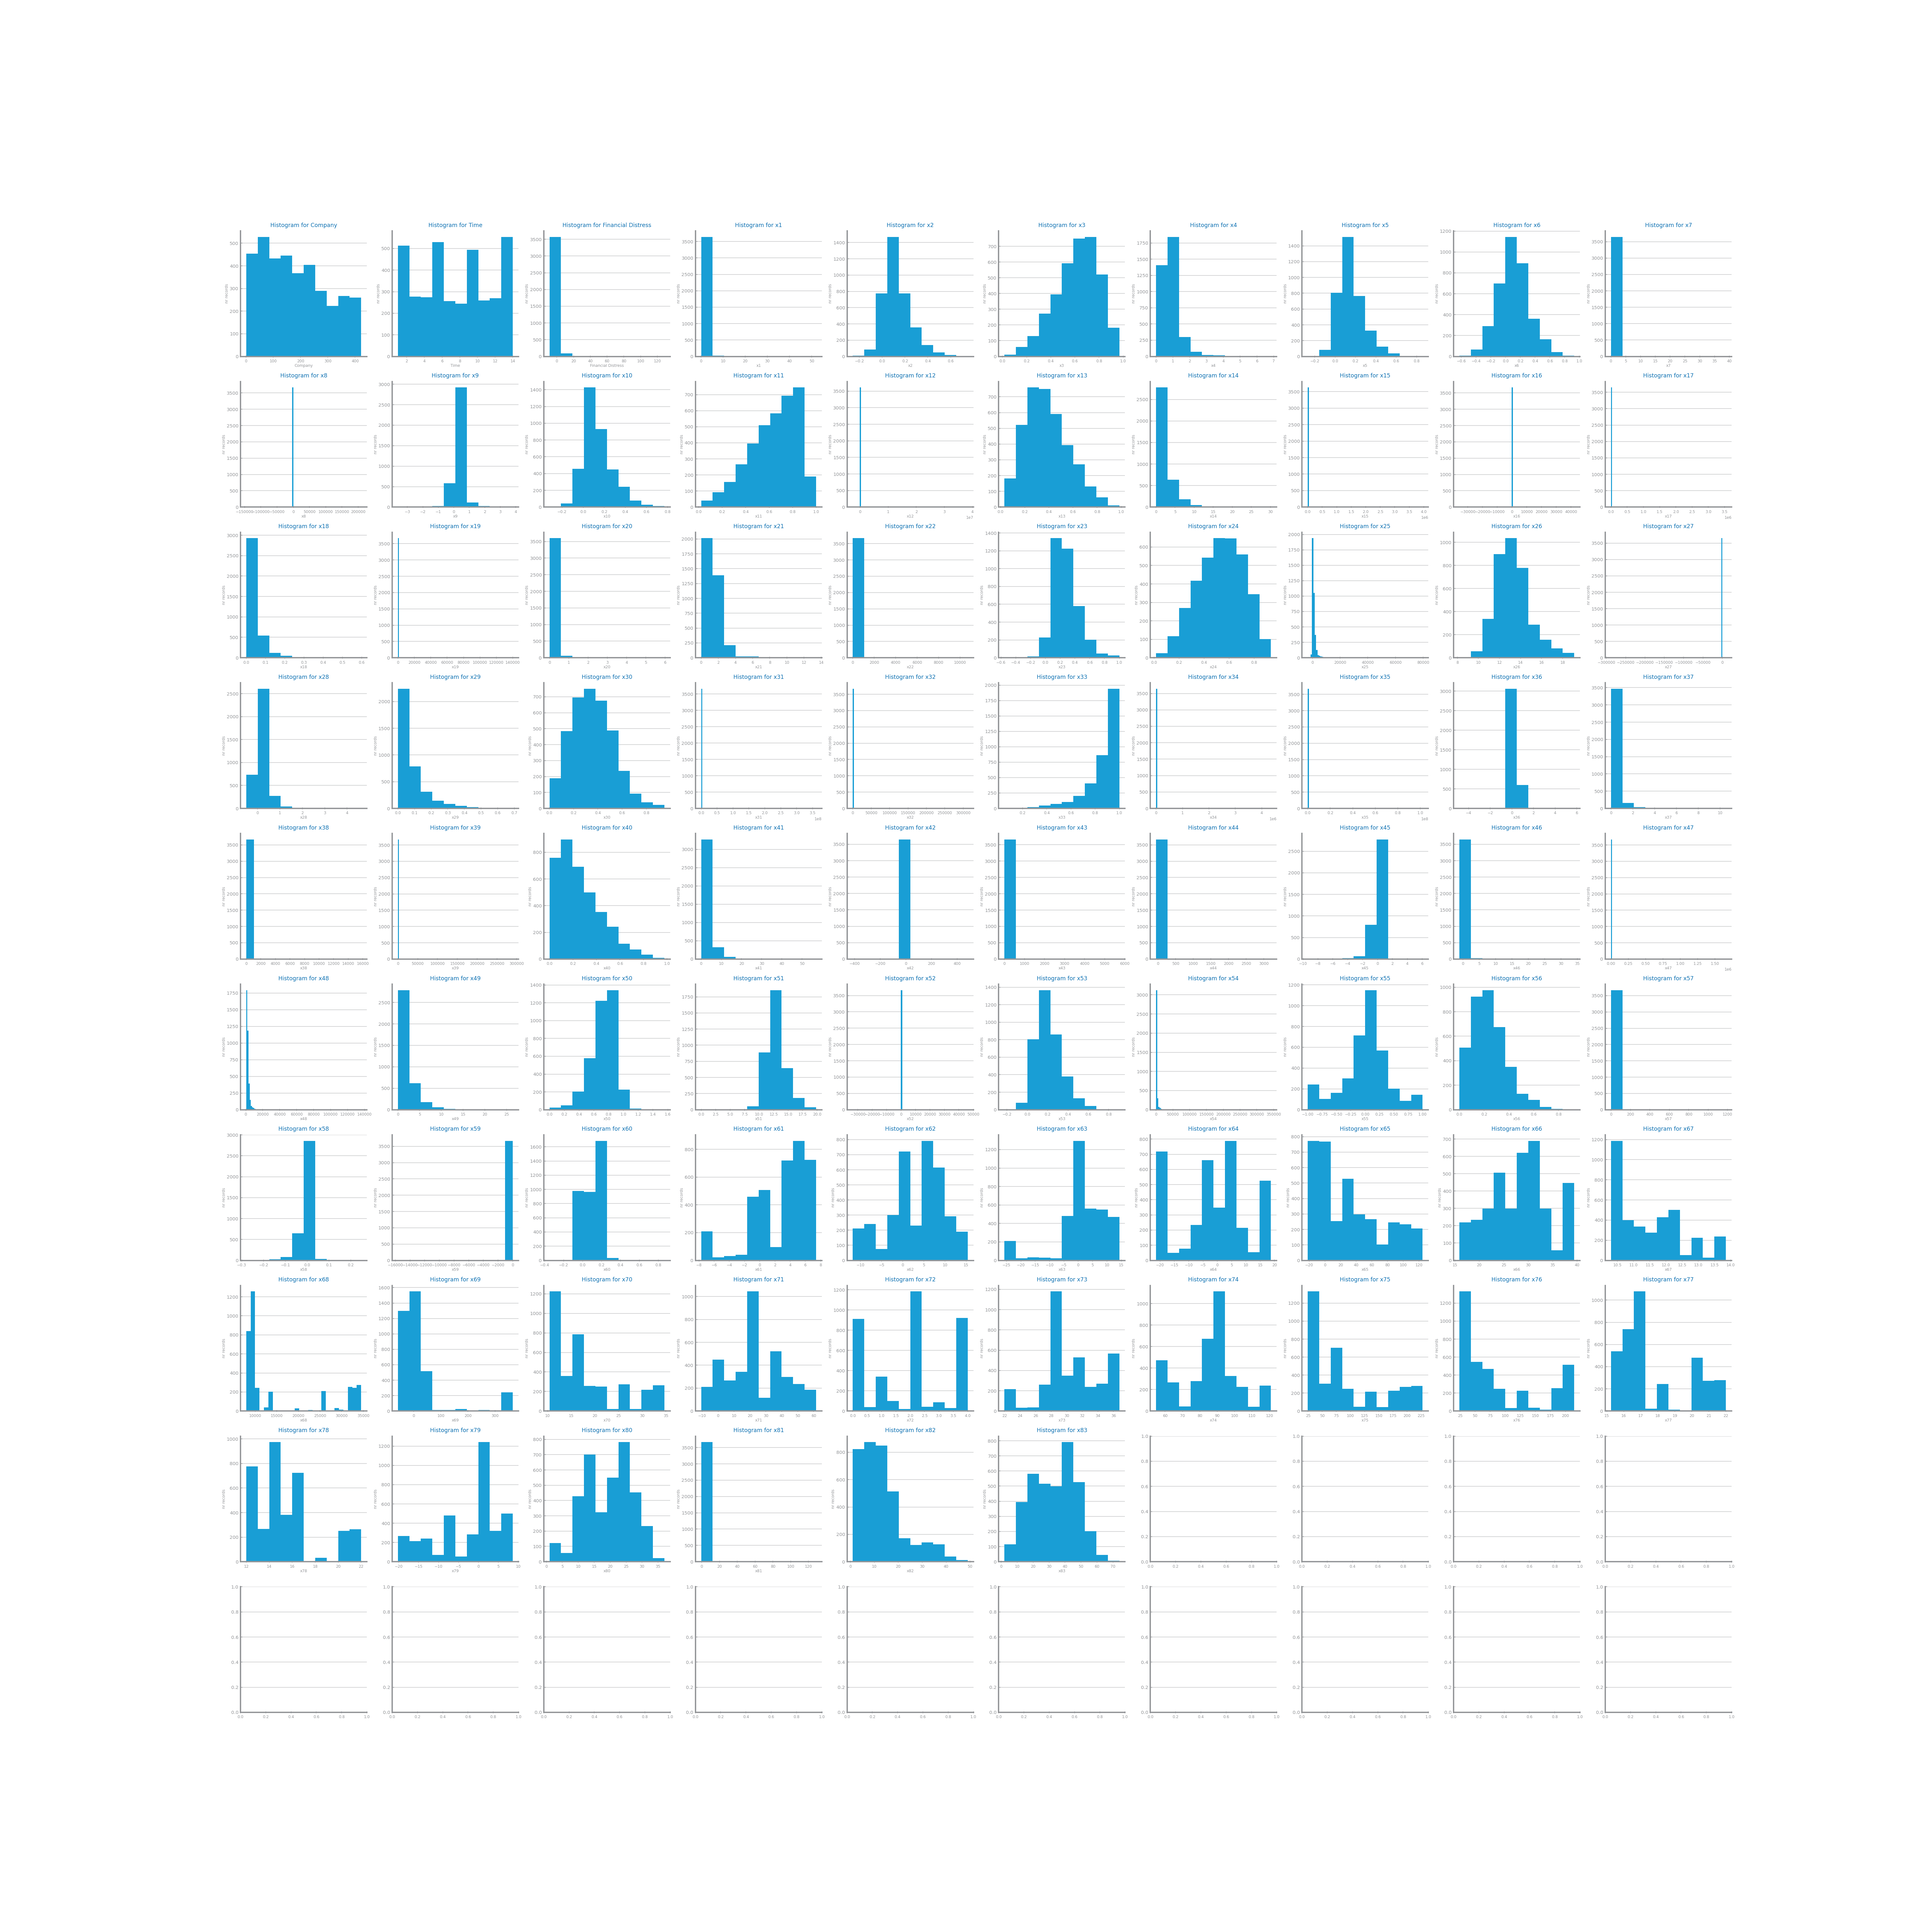
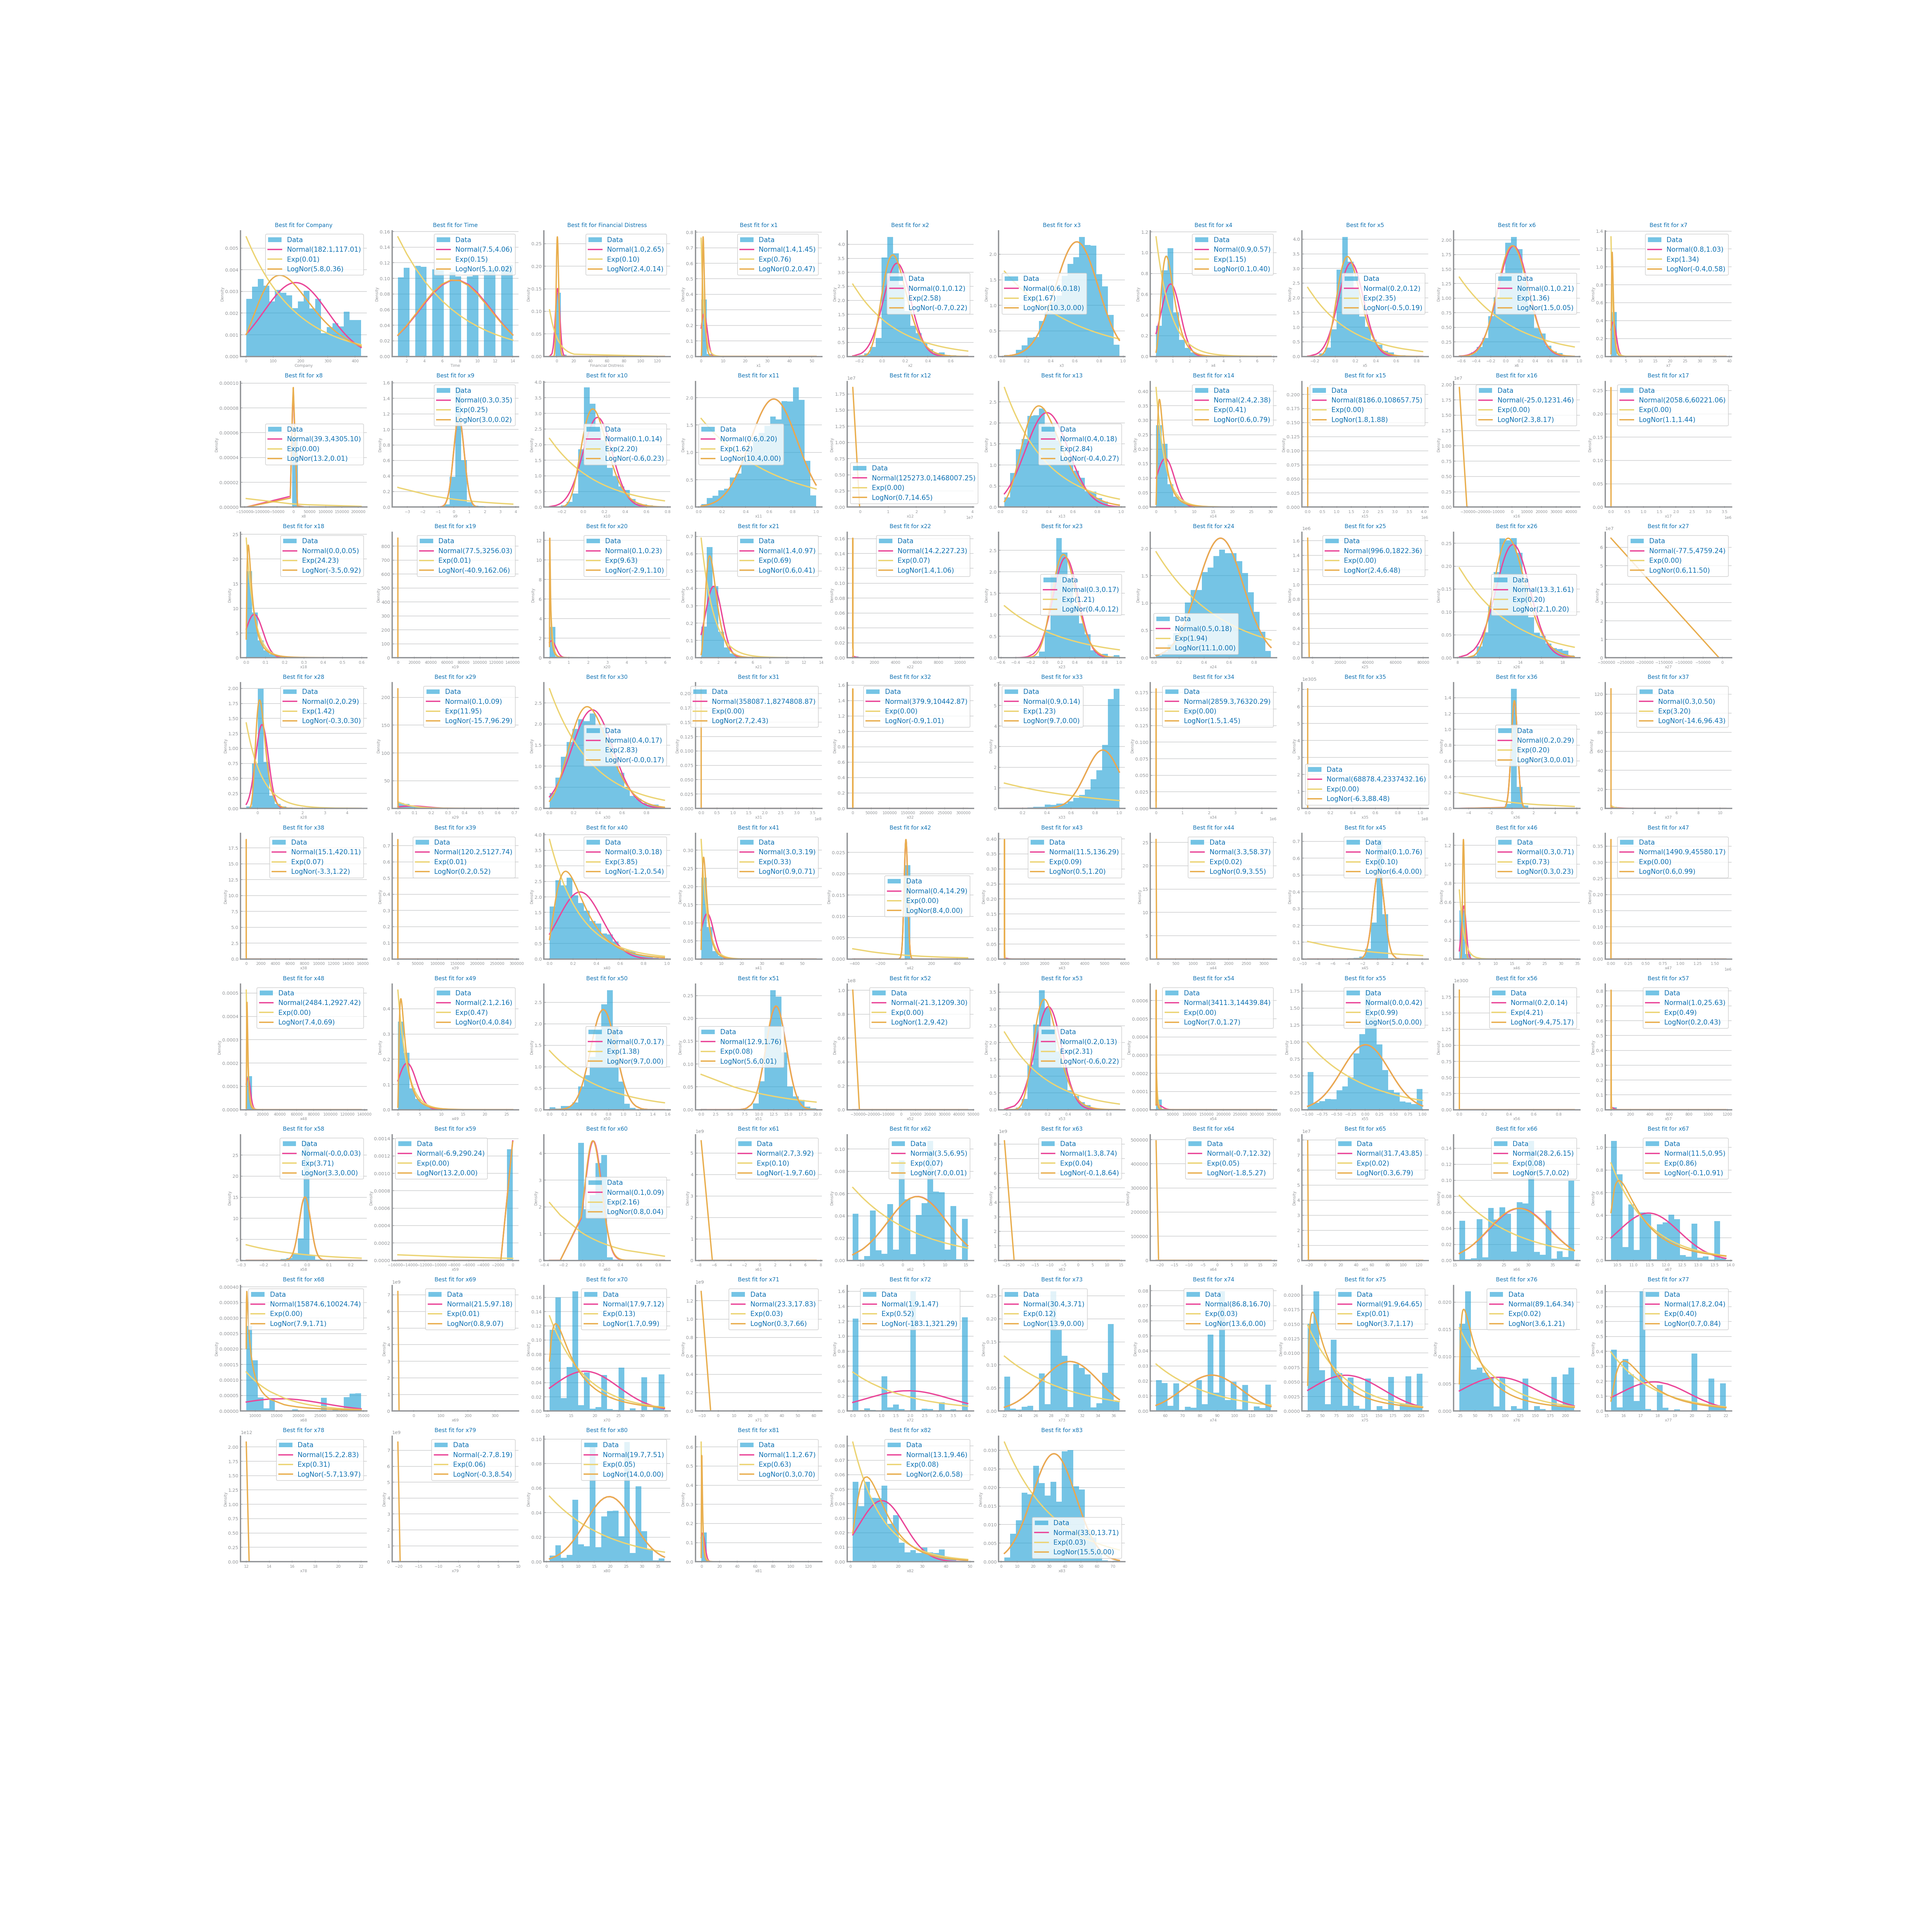
Finished Data Profiling

Changed region(s): [[0.1247, 0.1247, 0.9038, 0.8103], [0.8415, 0.2805, 0.9038, 0.3117]]

diff --git a/classes/DataProfiling.py b/classes/DataProfiling.py
@@ -1,15 +1,16 @@
 import math
-import seaborn as sns
 import pandas as pd
+from pandas import Series, DataFrame
 import numpy as np
+from numpy import ndarray
 from matplotlib import pyplot as plt
 from matplotlib.pyplot import figure, savefig, show, subplots
 from matplotlib.figure import Figure
+from matplotlib.axes import Axes
 from seaborn import heatmap
+from scipy.stats import norm, expon, lognorm
 from dslabs_functions import plot_bar_chart, get_variable_types, derive_date_variables, HEIGHT, \
     plot_multi_scatters_chart, set_chart_labels, define_grid
-from numpy import ndarray
-from pandas import Series, DataFrame
 
 class DataProfiling:
     """
@@ -180,7 +181,7 @@ class DataProfiling:
                 # Update grid indices
                 i, j = (i + 1, 0) if (n + 1) % grid_size == 0 else (i, j + 1)
 
-            savefig(f"graphs/{self.data_loader.file_tag}_histogram_numeric_distribution.png")
+            savefig(f"graphs/{self.data_loader.file_tag}_single_histograms_numeric.png")
             plt.show()
         else:
             print("There are no numeric variables.")
@@ -204,10 +205,79 @@ class DataProfiling:
                     percentage=False,
                 )
                 i, j = (i + 1, 0) if (n + 1) % cols == 0 else (i, j + 1)
-            savefig(f"graphs/{self.data_loader.file_tag}_histograms_symbolic.png")
+            savefig(f"graphs/{self.data_loader.file_tag}_single_histograms_symbolic.png")
             show()
         else:
             print("There are no symbolic variables.")
+
+    def compute_known_distributions(self, x_values: list) -> dict:
+        distributions = dict()
+        # Gaussian
+        mean, sigma = norm.fit(x_values)
+        distributions["Normal(%.1f,%.2f)" % (mean, sigma)] = norm.pdf(x_values, mean, sigma)
+        # Exponential
+        loc, scale = expon.fit(x_values)
+        distributions["Exp(%.2f)" % (1 / scale)] = expon.pdf(x_values, loc, scale)
+        # LogNorm
+        sigma, loc, scale = lognorm.fit(x_values)
+        distributions["LogNor(%.1f,%.2f)" % (math.log(scale), sigma)] = lognorm.pdf(
+            x_values, sigma, loc, scale
+        )
+        return distributions
+
+    def histogram_with_distributions(self, ax: Axes, series: Series, var: str):
+        values: list = series.sort_values().to_list()
+        ax.hist(values, bins=20, density=True, alpha=0.6, label="Data")
+        distributions: dict = self.compute_known_distributions(values)
+        for label, dist in distributions.items():
+            ax.plot(values, dist, label=label)
+        ax.set_title(f"Best fit for {var}")
+        ax.set_xlabel(var)
+        ax.set_ylabel("Density")
+        ax.legend()
+
+    def plot_histograms_distribution(self):
+
+        """Plots histograms for all numerical variables and fits known distributions."""
+        variables_types: dict[str, list] = get_variable_types(self.data)
+        numeric: list[str] = variables_types["numeric"]
+        numeric = [col for col in numeric if pd.api.types.is_numeric_dtype(self.data[col])]
+
+        if numeric:
+            # Determine the size of the grid
+            num_plots = len(numeric)
+            grid_size = math.ceil(math.sqrt(num_plots))  # Square grid (equal rows and columns)
+
+            # Create the figure and axes with a square grid
+            fig: Figure
+            axs: ndarray
+            fig, axs = plt.subplots(
+                grid_size, grid_size, figsize=(grid_size * HEIGHT, grid_size * HEIGHT), squeeze=False
+            )
+            i: int
+            j: int
+            i, j = 0, 0
+
+            for n in range(len(numeric)):
+                feature = numeric[n]
+                col_data = self.data[feature].dropna()
+
+                print(f"Processing feature: {feature}")
+
+                # Plot histogram and distributions
+                self.histogram_with_distributions(axs[i, j], col_data, feature)
+
+                # Update grid indices
+                i, j = (i + 1, 0) if (n + 1) % grid_size == 0 else (i, j + 1)
+
+            # Remove any empty subplots
+            for ax in axs.flat[num_plots:]:
+                ax.axis("off")
+
+            savefig(f"graphs/{self.data_loader.file_tag}_histogram_numeric_distribution.png")
+            plt.show()
+        else:
+            print("There are no numeric variables.")
 
     NR_STDEV: int = 2
     IQR_FACTOR: float = 1.5

diff --git a/main.py b/main.py
@@ -35,8 +35,10 @@ data_profiling2 = DataProfiling(data_loader2)
 # data_profiling2.plot_global_boxplots()
 # data_profiling1.plot_single_variable_boxplots()
 # data_profiling2.plot_single_variable_boxplots()
-# data_profiling1.plot_histograms()
-# data_profiling2.plot_histograms()
+data_profiling1.plot_histograms()
+data_profiling2.plot_histograms()
+data_profiling1.plot_histograms_distribution()
+data_profiling2.plot_histograms_distribution()
 # data_profiling1.plot_outlier_comparison()
 # data_profiling2.plot_outlier_comparison()
 # data_profiling1.plot_class_distribution()
@@ -62,10 +64,9 @@ data_processing1.encode_NY_ARRESTS()
 # Save the encoded data
 data_loader1.data.to_csv("data/class_ny_arrests_encoded.csv", index=False)
 
-data_profiling1 = DataProfiling(data_loader1)
-
 # Data Correlation
-data_profiling1.plot_correlation_analysis()
-data_profiling2.plot_correlation_analysis()
+# data_profiling1 = DataProfiling(data_loader1)
+# data_profiling1.plot_correlation_analysis()
+# data_profiling2.plot_correlation_analysis()
 
 # %% 2- Data Processing
